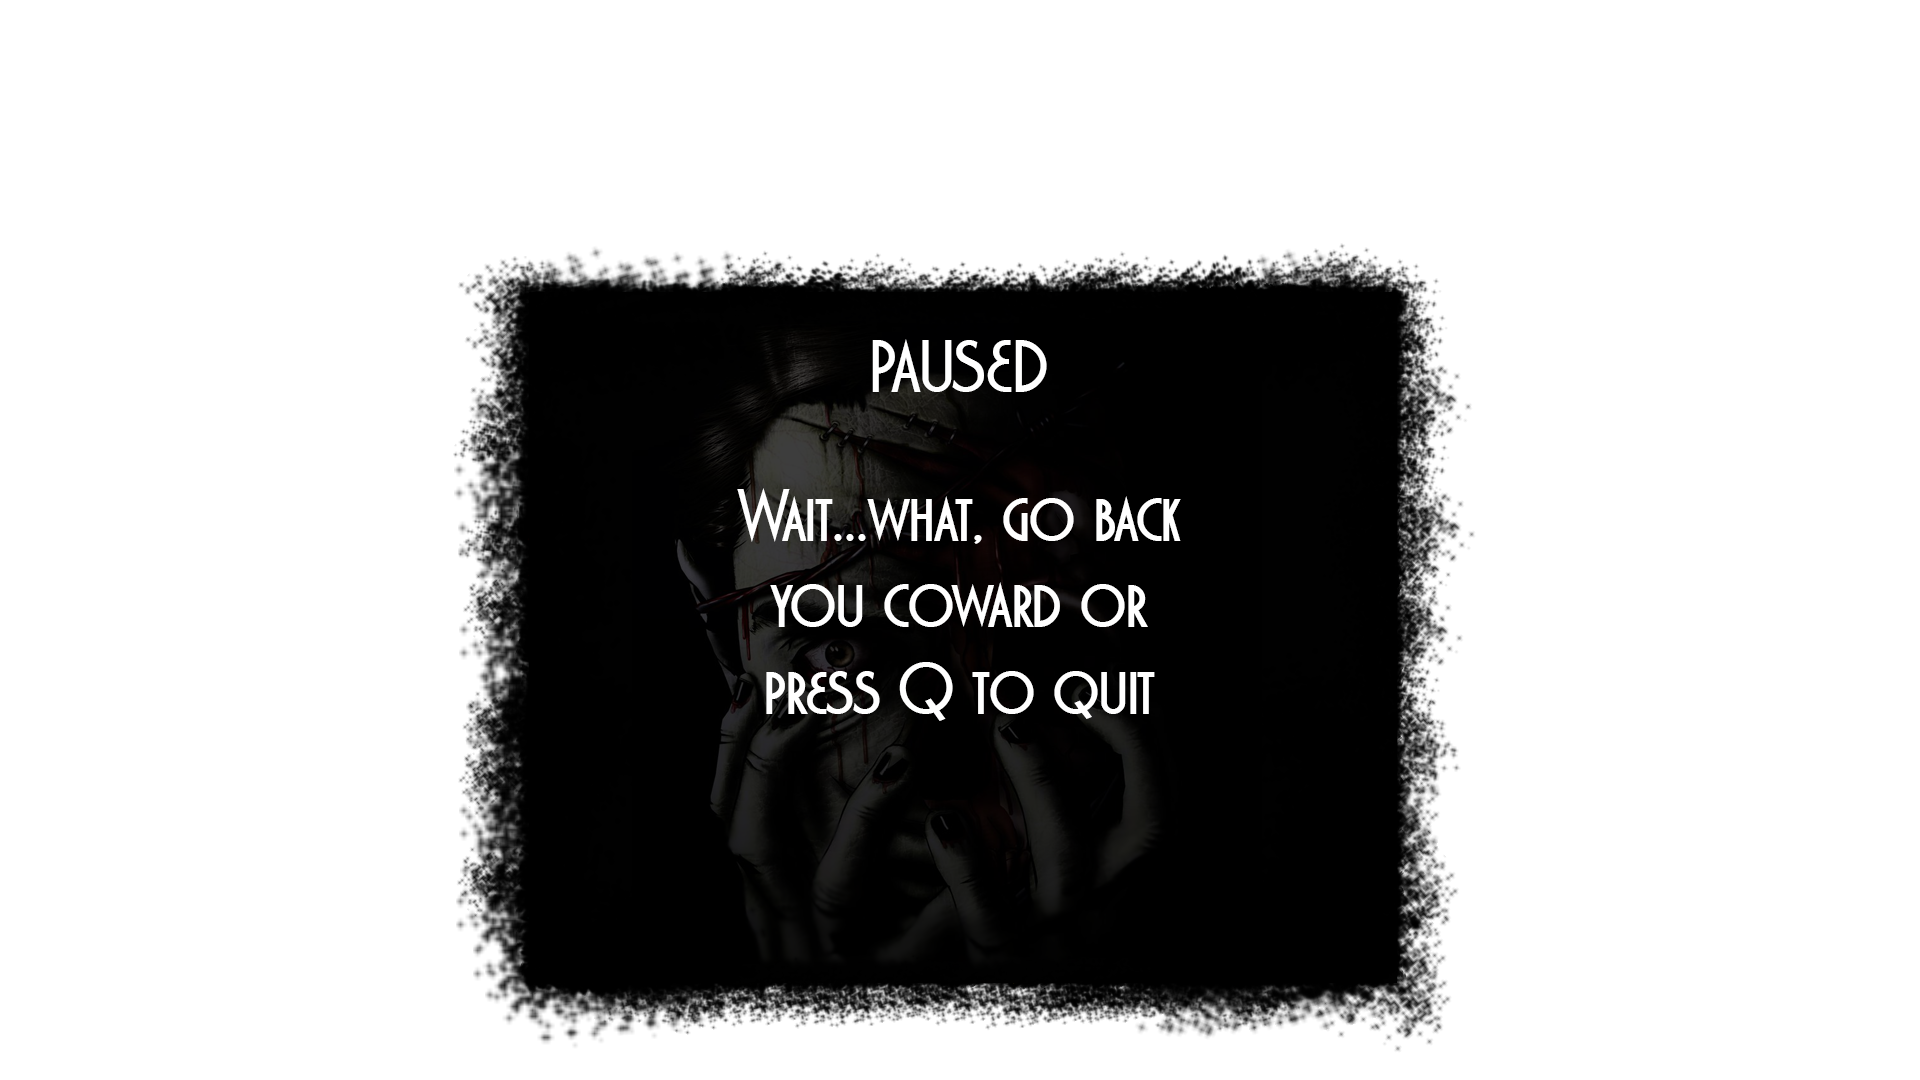
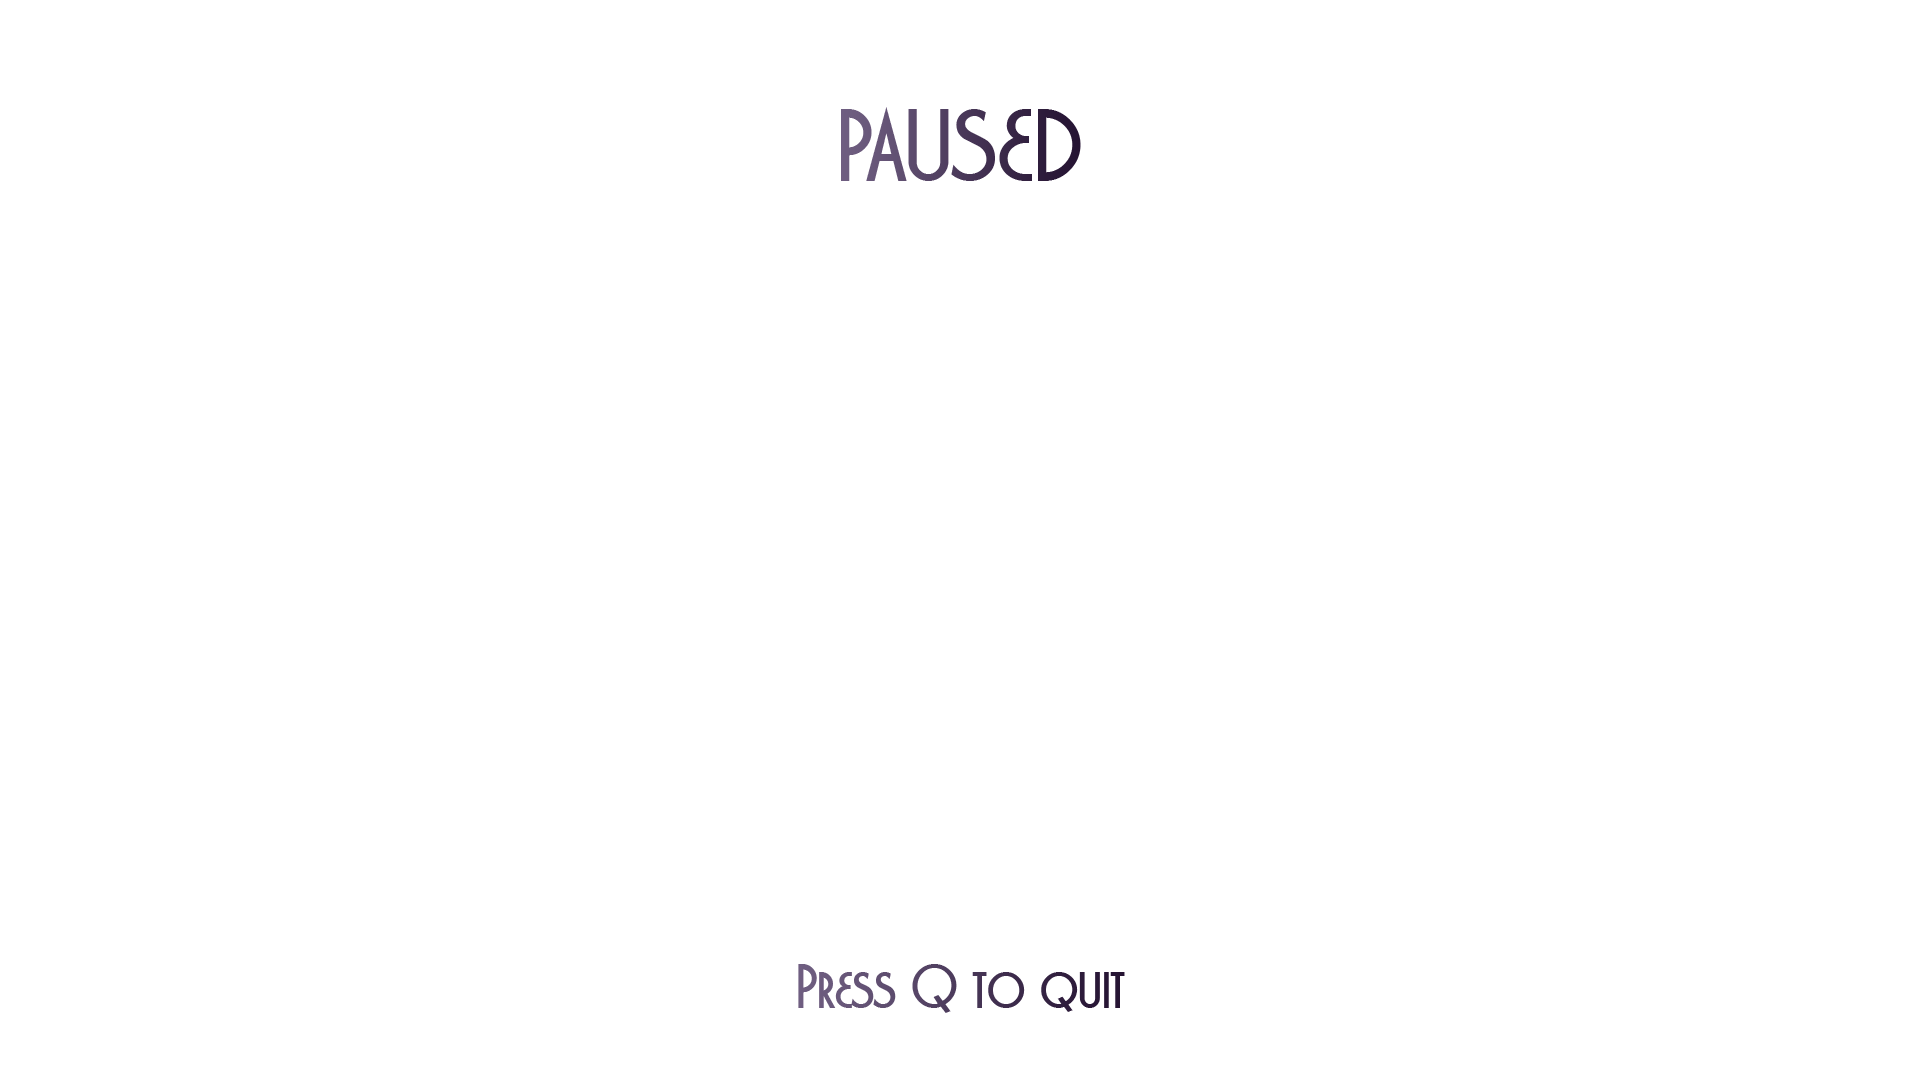
pause fix

diff --git a/Game/Menu/GameManager.cs b/Game/Menu/GameManager.cs
@@ -91,7 +91,7 @@ namespace Game
         // state we are we use that state's draw method.
         public void Draw(GameTime gameTime)
         {
-            sb.GraphicsDevice.Clear(Color.Black);
+            //sb.GraphicsDevice.Clear(Color.Black);
             switch (CurrentGameState)
             {
 
